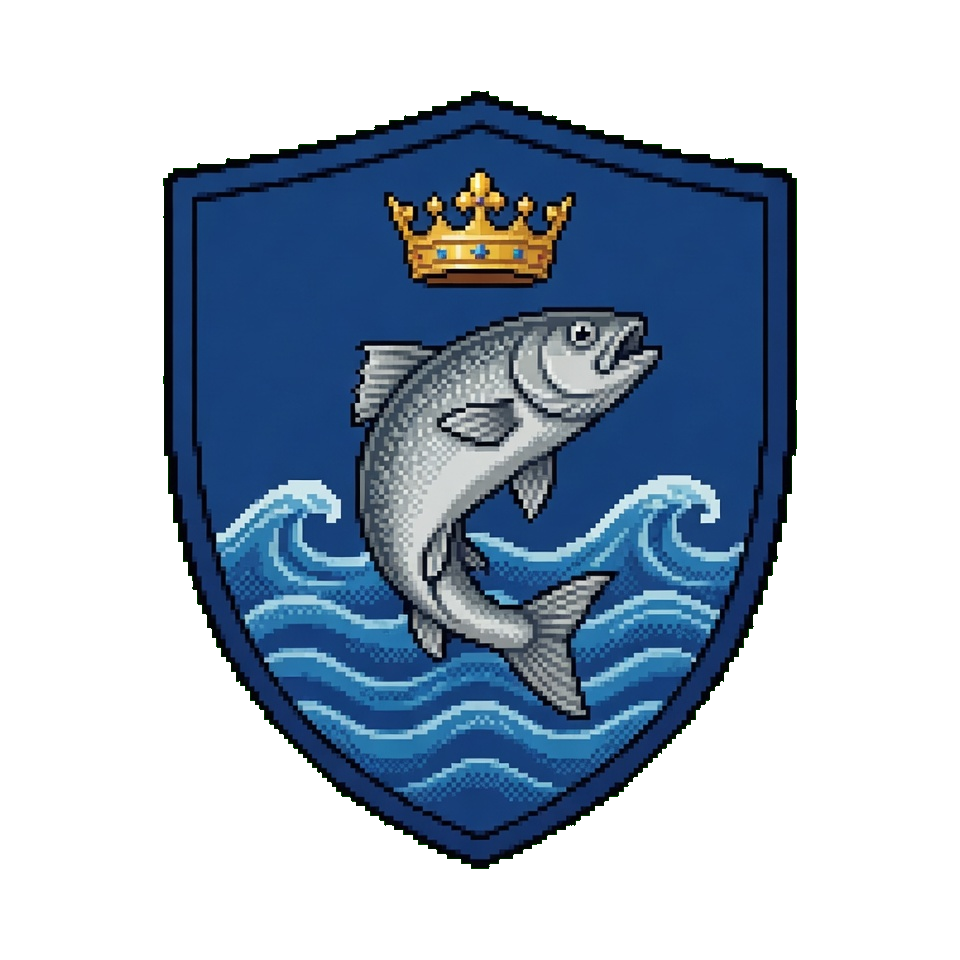
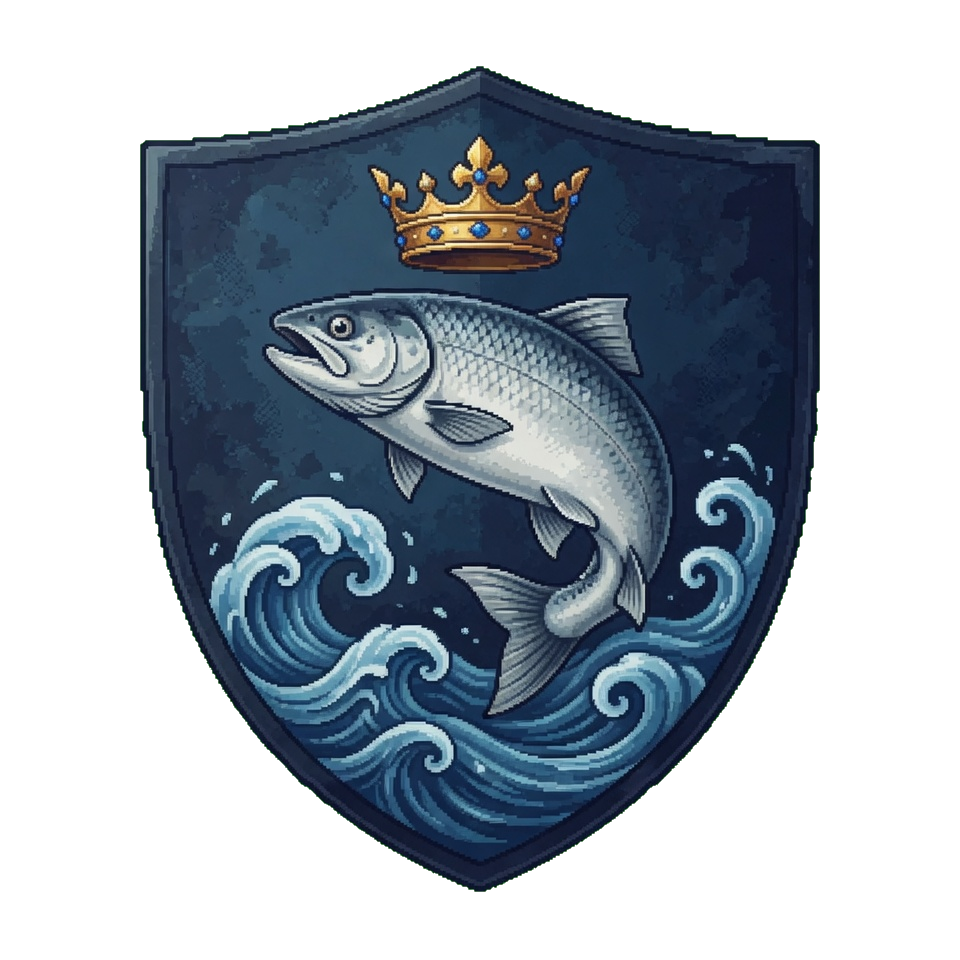
TKW: refresh house sigils and list/header styling
- rename `cerwyne`→`cerwyn`, `oakhart`→`oakheart`; add `rosby`; redraw several house sigil PNGs
- `FilteredHouseList.module.scss` and `ParchmentLayout.module.scss` layout tweaks
- masthead floral `::before` `opacity` to `0.1`; drop flourishes from `SiteHeader` and house `.heading`
- add `public/patterns/corner.{jpg,png}`

diff --git a/components/FilteredHouseList/FilteredHouseList.module.scss b/components/FilteredHouseList/FilteredHouseList.module.scss
@@ -12,6 +12,14 @@
   gap: 1rem;
   justify-self: stretch;
 
+  @media (max-width: bp.$xxl) {
+    grid-template-columns: repeat(4, 1fr);
+  }
+
+  @media (max-width: bp.$xl) {
+    grid-template-columns: repeat(4, 1fr);
+  }
+
   @media (max-width: bp.$lg) {
     grid-template-columns: repeat(4, 1fr);
   }
@@ -38,22 +46,23 @@
   min-height: 10.5rem;
   padding: 0.5rem;
   background: var(--vellum);
-  border: 2px solid rgba(107, 68, 35, 0.25);
+  border: 2px solid white;
   border-radius: 2px;
   color: var(--ink);
   text-decoration: none;
   text-align: center;
+  border-radius: 8px;
   transition:
     border-color 150ms ease,
     transform 150ms ease,
     box-shadow 150ms ease;
-  box-shadow: 0 1px 0 rgba(0, 0, 0, 0.04);
+  box-shadow: 0 0 0 0 rgba(0, 0, 0, 0);
 
   &:hover,
   &:focus-visible {
-    border-color: var(--gold-leaf);
+    border-color: white;
     transform: scale(1.01);
-    box-shadow: 0 2px 12px rgba(212, 162, 89, 0.18);
+    box-shadow: 0 0 5px 0 rgba(0, 0, 0, 0.25);
     color: var(--ink);
   }
 
@@ -70,31 +79,58 @@
 // Regional border tints — colours live in `globals.scss` as
 // `--region-color-*` tokens (shared with `FilteredCharacterList`).
 .cardNorth {
-  border-color: var(--region-color-north);
+  &:hover,
+  &:focus-visible {
+    border-color: var(--region-color-north);
+  }
 }
 .cardVale {
-  border-color: var(--region-color-vale);
+  &:hover,
+  &:focus-visible {
+    border-color: var(--region-color-vale);
+  }
 }
 .cardRiverlands {
-  border-color: var(--region-color-riverlands);
+  &:hover,
+  &:focus-visible {
+    border-color: var(--region-color-riverlands);
+  }
 }
 .cardWesterlands {
-  border-color: var(--region-color-westerlands);
+  &:hover,
+  &:focus-visible {
+    border-color: var(--region-color-westerlands);
+  }
 }
 .cardReach {
-  border-color: var(--region-color-reach);
+  &:hover,
+  &:focus-visible {
+    border-color: var(--region-color-reach);
+  }
 }
 .cardStormlands {
-  border-color: var(--region-color-stormlands);
+  &:hover,
+  &:focus-visible {
+    border-color: var(--region-color-stormlands);
+  }
 }
 .cardDorne {
-  border-color: var(--region-color-dorne);
+  &:hover,
+  &:focus-visible {
+    border-color: var(--region-color-dorne);
+  }
 }
 .cardIronIslands {
-  border-color: var(--region-color-iron-islands);
+  &:hover,
+  &:focus-visible {
+    border-color: var(--region-color-iron-islands);
+  }
 }
 .cardCrownlands {
-  border-color: var(--region-color-crownlands);
+  &:hover,
+  &:focus-visible {
+    border-color: var(--region-color-crownlands);
+  }
 }
 
 .name {

diff --git a/components/listSearch.module.scss b/components/listSearch.module.scss
@@ -2,13 +2,14 @@
 
 .input {
   display: grid;
+  grid-area: search;
   width: 100%;
   font-family: var(--font-character-name);
   font-size: 1.8rem;
-  padding: 0 1rem;
+  padding: 1rem;
   background: rgba(248, 236, 208, 0.55);
   color: var(--ink);
-  height: 50px;
+  // height: 50px;
   border: 1px solid rgba(107, 68, 35, 0.35);
   border-radius: 2px;
   outline: none;
@@ -33,9 +34,9 @@
     transition: none;
   }
 
-  @media (max-width: bp.$sm) {
-    font-size: 1.05rem;
-    padding: 0.85rem 1rem;
+  @media (max-width: bp.$md) {
+    font-size: 2rem;
+    padding: 1rem;
   }
 }
 
@@ -209,12 +210,14 @@
   width: 100%;
   gap: 1rem;
   height: 100%;
+  align-items: center;
 
-  @media (max-width: bp.$sm) {
-    grid-template-columns: 1fr auto;
+  @media (max-width: bp.$md) {
+    grid-template-columns: 1fr 1fr;
     grid-template-areas:
       "search search"
       "sort   view";
-    row-gap: 0.5rem;
+    gap: 1rem;
+    justify-items: center;
   }
 }

diff --git a/app/houses/[slug]/page.tsx b/app/houses/[slug]/page.tsx
@@ -10,7 +10,7 @@ import {
   renderMarkdown,
 } from "@/lib/content";
 import { ParchmentLayout } from "@/components/ParchmentLayout";
-import { FiligreeFlourish, FiligreeRule } from "@/components/Filigree";
+import { FiligreeRule } from "@/components/Filigree";
 import { Sources } from "@/components/Sources";
 import { FamilyTreeViews } from "@/components/FamilyTreeViews";
 import { enrichTreeWithPortraits } from "@/lib/family-tree-portraits";
@@ -99,9 +99,7 @@ export default async function HousePage({
       <div className={styles.detail}>
         <div className={styles.heading}>
           <div className={styles.nameRow}>
-            <FiligreeFlourish className={styles.nameFlourish} />
             <h1>{house.frontmatter.name}</h1>
-            <FiligreeFlourish mirrored className={styles.nameFlourish} />
           </div>
           {house.frontmatter.words && (
             <p className="subtitle">&ldquo;{house.frontmatter.words}&rdquo;</p>

diff --git a/components/ParchmentLayout/ParchmentLayout.module.scss b/components/ParchmentLayout/ParchmentLayout.module.scss
@@ -1,10 +1,10 @@
 @use "breakpoints" as bp;
 
 .page {
-  max-width: 1280px;
+  max-width: 1600px;
   width: 100%;
   margin: 0 auto;
-  padding: 2rem 0 10rem 0;
+  padding: 2rem 1rem 10rem 1rem;
   position: relative;
   display: grid;
   grid-template-columns: 1fr;
@@ -12,12 +12,18 @@
   align-content: start;
   justify-items: center;
 
-  @media (max-width: bp.$xs) {
-    padding: 2rem 1rem 4rem 1rem;
+  @media (max-width: bp.$xxl) {
+    max-width: 1600px;
+    padding: 2rem 2rem 10rem 2rem;
   }
 
   @media (max-width: bp.$xl) {
+    max-width: 1280px;
     padding: 2rem 1rem 10rem 1rem;
+  }
+
+  @media (max-width: bp.$xs) {
+    padding: 2rem 1rem 4rem 1rem;
   }
 }
 

diff --git a/components/SiteHeader/SiteHeader.tsx b/components/SiteHeader/SiteHeader.tsx
@@ -1,5 +1,4 @@
 import Link from "next/link";
-import { FiligreeFlourish } from "@/components/Filigree";
 import styles from "@/components/SiteHeader/SiteHeader.module.scss";
 
 export function SiteHeader() {
@@ -7,9 +6,7 @@ export function SiteHeader() {
     <header className={styles.header}>
       <div className={styles.inner}>
         <Link href="/" className={styles.titleLink}>
-          <FiligreeFlourish className={styles.flourish} />
           <p className={styles.title}>The Known World</p>
-          <FiligreeFlourish mirrored className={styles.flourish} />
         </Link>
       </div>
     </header>

diff --git a/components/SortToggle/SortToggle.module.scss b/components/SortToggle/SortToggle.module.scss
@@ -1,9 +1,17 @@
+@use "breakpoints" as bp;
+
 .toggle {
   display: flex;
   border: 1px solid rgba(107, 68, 35, 0.35);
   border-radius: 2px;
   overflow: hidden;
   background: rgba(248, 236, 208, 0.55);
+  width: 100px;
+  height: 50px;
+
+  @media (max-width: bp.$md) {
+    justify-self: right;
+  }
 }
 
 .button {

diff --git a/components/ViewToggle/ViewToggle.module.scss b/components/ViewToggle/ViewToggle.module.scss
@@ -1,9 +1,17 @@
+@use "breakpoints" as bp;
+
 .toggle {
   display: flex;
   border: 1px solid rgba(107, 68, 35, 0.35);
   border-radius: 2px;
   overflow: hidden;
   background: rgba(248, 236, 208, 0.55);
+  width: 100px;
+  height: 50px;
+
+  @media (max-width: bp.$md) {
+    justify-self: left;
+  }
 }
 
 .button {

diff --git a/components/SiteHeader/SiteHeader.module.scss b/components/SiteHeader/SiteHeader.module.scss
@@ -24,7 +24,7 @@
     background-repeat: repeat;
     background-size: 150px auto;
     opacity: 0.1;
-    mix-blend-mode: multiply;
+    mix-blend-mode: difference;
     pointer-events: none;
     z-index: 0;
   }

diff --git a/styles/_breakpoints.scss b/styles/_breakpoints.scss
@@ -7,3 +7,4 @@ $sm: 639.98px;
 $md: 767.98px;
 $lg: 1023.98px;
 $xl: 1279.98px;
+$xxl: 1535.98px;
